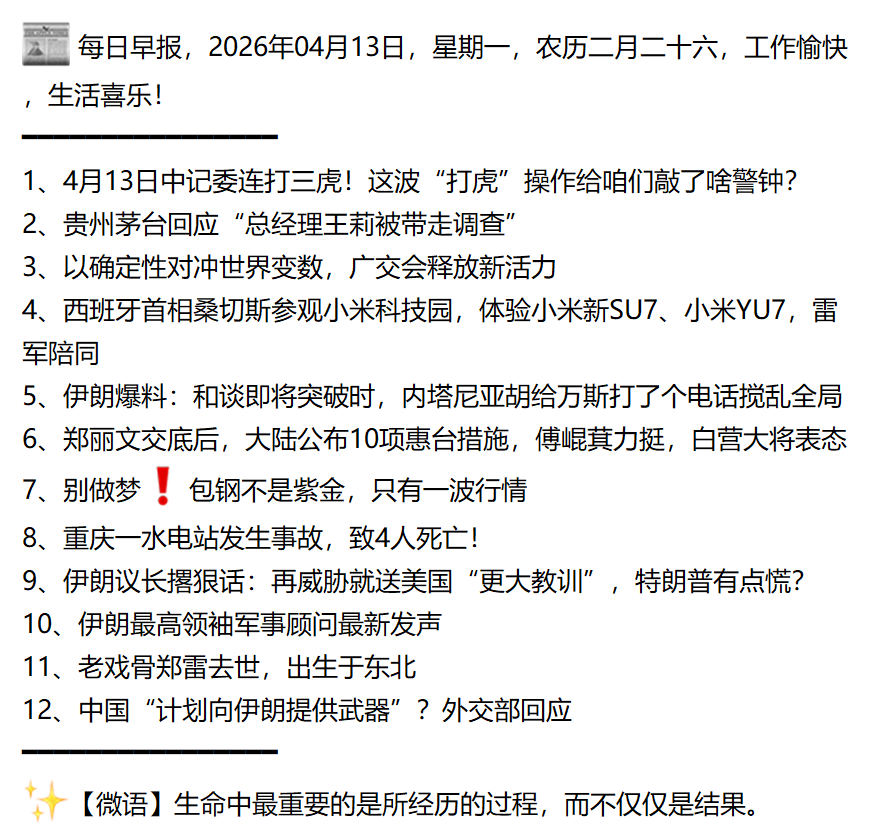
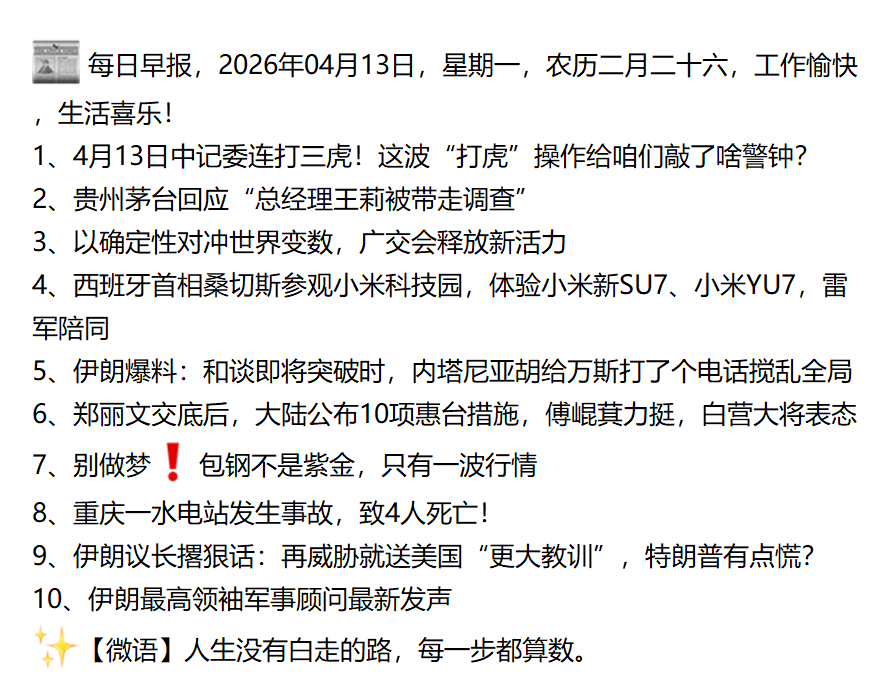
fix: 使用HTML标签实现新闻之间的空行
- 在每条新闻后添加<br/><br/>标签，确保企业微信显示时有空行
- 优化新闻列表格式，使用HTML换行标签替代纯文本换行
- 修复企业微信markdown不支持\\n\\n空行的问题
- 测试通过，新闻之间现在有清晰的空行间隔

diff --git a/src/graphs/nodes/news_fetch_node.py b/src/graphs/nodes/news_fetch_node.py
@@ -175,12 +175,12 @@ def news_fetch_node(state: NewsFetchInput, config: RunnableConfig, runtime: Runt
         festival_section = f"\n\n🎉 今天是{festival_info['name']}，{festival_info['desc']}"
 
     # 新闻列表
-    news_section = ""
+    news_section = "\n\n"
     if news_list:
         for news in news_list:
-            news_section += f"\n\n{news['index']}、{news['title']}"
+            news_section += f"{news['index']}、{news['title']}<br/><br/>"
     else:
-        news_section = "\n\n今日暂无新闻更新"
+        news_section = "今日暂无新闻更新"
 
     # 微语
     quote = get_daily_quote()
